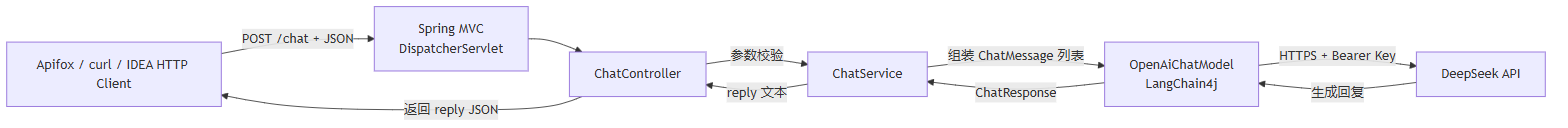
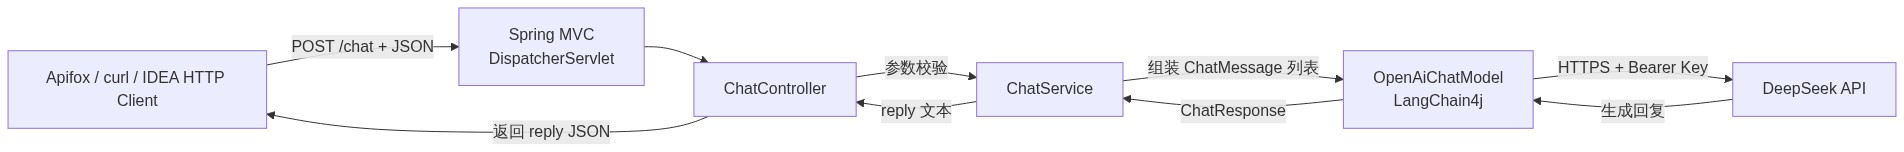
docs: 修复流程图渲染（mermaid 标签修正 + 生成正确静态 PNG）

diff --git a/02-知识库/LLM应用开发/JSON-Schema结构化输出.md b/02-知识库/LLM应用开发/JSON-Schema结构化输出.md
@@ -51,6 +51,8 @@ ChatRequest request = ChatRequest.builder()
 
 ## 五、请求流程
 
+![JSON Schema 结构化输出流程](images/JSON-Schema结构化输出.png)
+
 ```mermaid
 flowchart LR
     A[Apifox] -->|POST /chat/structured| B[ChatController]
